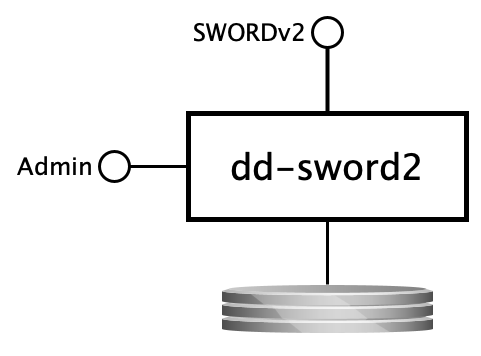
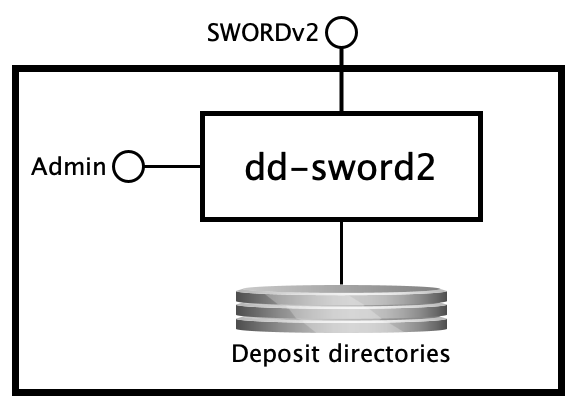
docs, work in progress

Changed region(s): [[0.0, 0.0309, 0.9979, 0.9888]]

diff --git a/docs/index.md b/docs/index.md
@@ -12,19 +12,55 @@ SYNOPSIS
 DESCRIPTION
 -----------
 
-### Introduction
+### Overview
+
+#### Context
 
 The `dd-sword2` service is the [DANS]{:target=_blank} implementation of the [SWORDv2]{:target=_blank} protocol. It is a rewrite in Java of the Scala-based
 project [easy-sword2]{:target=_blank}. As its predecessor, it does **not** implement the full SWORDv2 specifications. Also, since the SWORDv2 specs leave
-various important issues up to the implementer, the service adds some features. This manual is therefore written to be basically self-contained and does not
-contain detailed references to parts of the SWORDv2 specifications.
+various important issues up to the implementer, the service adds some features. The best starting point for learning about `dd-sword2` is this document. Where
+appropriate it contains references to the SWORDv2 specifications document. Client programmers should consult the [easy-sword2-dans-examples]{:target=_blank}
+project.
 
-### Overview
-At the highest level `dd-sword2` is a service that accepts ZIP packages that comply with the [BagIt]{:target=_blank} packaging format and produces a 
+#### Purpose of the service
+
+At the highest level `dd-sword2` is a service that accepts ZIP packages that comply with the [BagIt]{:target=_blank} packaging format and produces a
 [deposit directory]{:target=_blank} for each.
+
+### Interfaces
+
+The service has the following interfaces.
 
 ![Overview](img/overview.png){:width=50%}
 
+#### SWORDv2
+
+* _Protocol type_: HTTP
+* _Internal or external_: **external**
+* _Purpose_: depositing packages, submitting them for archival processing and tracking progress
+
+#### Deposit directories
+
+* _Protocol type_: Shared filesystem
+* _Internal or external_: **internal**
+* _Purpose_: handing packages to the post-submission processing service and reporting back status changes written by that service to the `deposit.properties`
+  files of the deposit directories.
+
+#### Admin console
+
+* _Protocol type_: HTTP
+* _Internal or external_: **internal**
+* _Purpose_: application monitoring and management
+
+### Processing
+
+#### Creating and submitting a deposit
+
+TODO
+
+#### Tracking post-submission processing
+
+TODO
 
 ARGUMENTS
 ---------
@@ -39,11 +75,10 @@ ARGUMENTS
 EXAMPLES
 --------
 
-<!-- Add examples of invoking this module from the command line or via HTTP other interfaces -->
+Java client code examples are available in [easy-sword2-dans-examples]{:target=_blank}.
 
-
-INSTALLATION AND CONFIGURATION
-------------------------------
+INSTALLATION
+------------
 Currently this project is built as an RPM package for RHEL7/CentOS7 and later. The RPM will install the binaries to
 `/opt/dans.knaw.nl/dd-sword2` and the configuration files to `/etc/opt/dans.knaw.nl/dd-sword2`.
 
@@ -55,6 +90,12 @@ For installation on systems that do no support RPM and/or systemd:
    ```bash
    /opt/dans.knaw.nl/dd-sword2/bin/dd-sword2 server /opt/dans.knaw.nl/dd-sword2/cfg/config.yml 
    ```
+
+CONFIGURATION
+-------------
+This service can be configured by changing the settings
+in [`config.yml`](https://github.com/DANS-KNAW/dd-sword2/blob/master/src/main/assembly/dist/cfg/config.yml){:target=_blank}. See the comments in that file for
+more information.
 
 BUILDING FROM SOURCE
 --------------------
@@ -86,3 +127,5 @@ Alternatively, to build the tarball execute:
 [BagIt]: https://datatracker.ietf.org/doc/html/rfc8493
 
 [deposit directory]: https://dans-knaw.github.io/dd-ingest-flow/deposit-directory/
+
+[easy-sword2-dans-examples]: https://github.com/DANS-KNAW/easy-sword2-dans-examples
